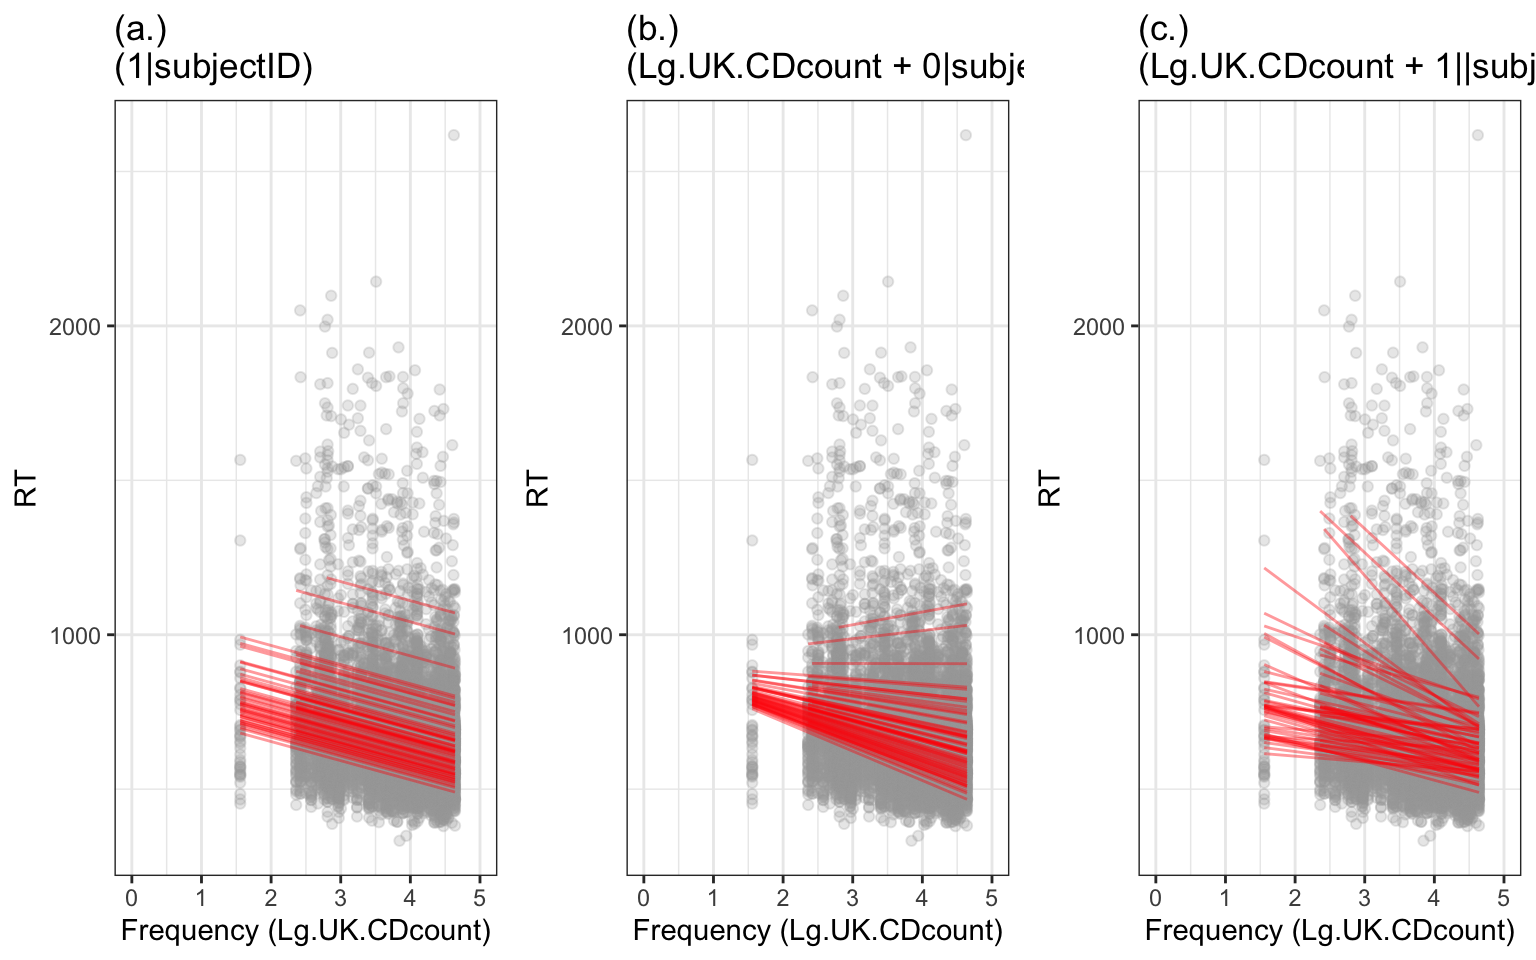
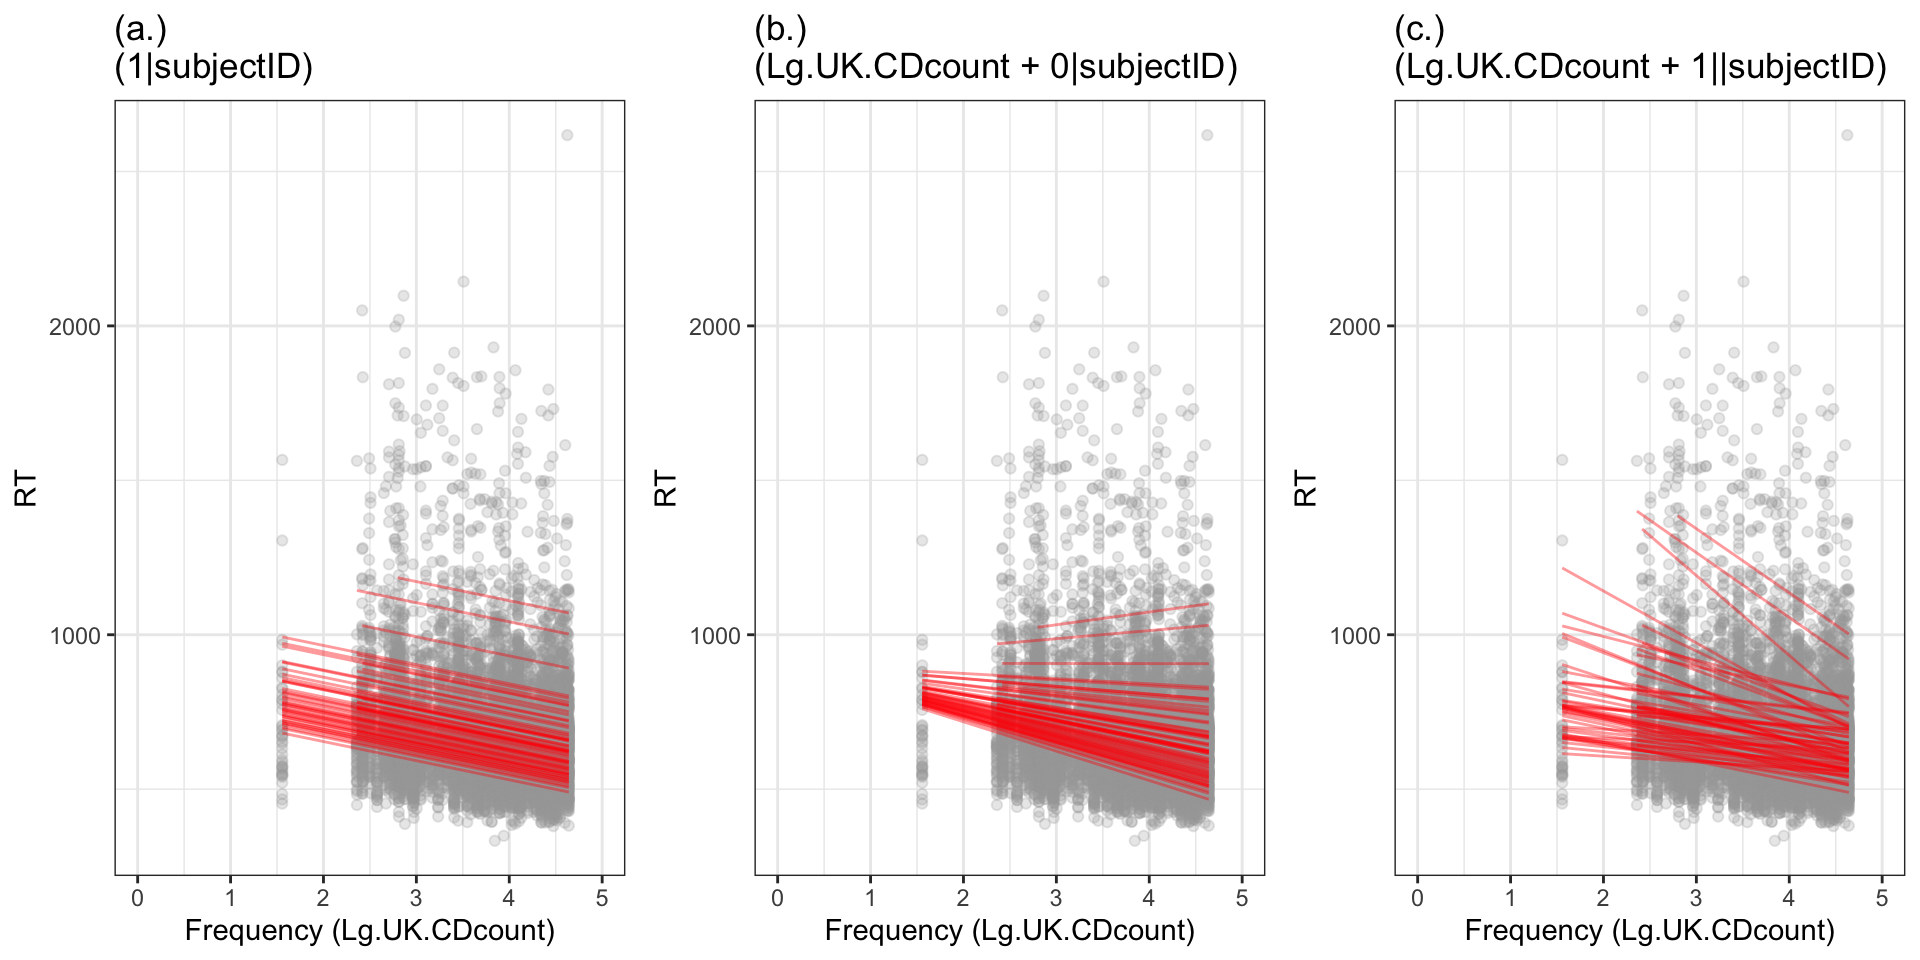
-- DONE -- edit structure of lmer model variant and error message exercise discussions -- DONE -- edit aspect of plots

diff --git a/docs/02-mixed.html b/docs/02-mixed.html
@@ -1803,72 +1803,54 @@ Y_{ij} = \gamma_0 + \gamma_1X_j + U_{0i}+ U_{1i}X_j + e_{ij}
 <li>the average intercept <span class="math inline">\(\gamma_0\)</span> and differences between <span class="math inline">\(i\)</span> children in the intercept <span class="math inline">\(U_{0i}\)</span>;</li>
 <li>the average effect of the explanatory variable frequency <span class="math inline">\(\gamma_1X_j\)</span> and differences between <span class="math inline">\(i\)</span> participants in the slope <span class="math inline">\(U_{1i}X_j\)</span>.</li>
 </ul>
-<p>When we think about the differences between participants (or between the units of any grouping variable), in intercepts or in slopes, we should understand that for the mixed-effects model, the differences are:</p>
+<p>When we think about the differences between participants (or between the units of any grouping variable), in intercepts or in slopes, we typically assume that the differences are:</p>
 <ul>
 <li>random;</li>
 <li>should be normally distributed;</li>
 <li>and are distributed around the population or average fixed effects.</li>
 </ul>
-<p>We should understand that the mixed-effects model sees the differences between participants <strong>relative to the fixed effect intercept or slope</strong>, that is, relative to the population level or average effects. We can illustrate this by plotting, in <a href="#fig-BLUPS-prediction">Figure&nbsp;<span>4.5</span></a>, the differences as estimated (technically, predicted) by the mixed-effects model that we have been examining. (The code for producing the plot can be found in <code>02-mixed-workbook-answers.R</code>.)</p>
-<p>What you can see in <a href="#fig-BLUPS-prediction">Figure&nbsp;<span>4.5</span></a> are distributions. The centers of the distributions are located at zero (shown by a red line). For each distribution (a. and b.), that is where the model estimate of the intercept or the slope of the frequency effect is located. Spread around that central point, you see the adjustments the model makes to account for differences between participants.</p>
-<ol type="1">
-<li>Notice how, in <a href="#fig-BLUPS-prediction">Figure&nbsp;<span>4.5</span></a> (a.)</li>
-</ol>
-<ul>
-<li>Some children have intercepts that are smaller than the population-level or average intercept – so their adjustments are negative (to decrease their intercepts).</li>
-<li>In comparison, some children have intercepts that are larger than the population-level or average intercept – so their adjustments are positive (to increase their intercepts).</li>
-<li>Strikingly, you can see that a few children have intercepts that are as much as 1000ms larger than the population-level or average intercept.</li>
-</ul>
-<ol start="2" type="1">
-<li>Notice how, in <a href="#fig-BLUPS-prediction">Figure&nbsp;<span>4.5</span></a> (b.)</li>
-</ol>
-<ul>
-<li>Some children have frequency effects (coefficients) that are smaller than the population-level or average frequency effect – so their adjustments are positive (to decrease their frequency effect, by making it <em>less</em> negative).</li>
-<li>Remember the estimated <span class="math inline">\(\beta\)</span> coefficient for the frequency effect is negative because higher word frequency is associated with smaller RT.</li>
-<li>In comparison, some children have frequency effects that are larger than the population-level or average frequency effect – so their adjustments are negative (to increase their frequency effect, by making it <em>more</em> negative).</li>
-<li>Strikingly, you can see that a few children have frequency effects that are as much as 200ms larger (see plot (b.) around <span class="math inline">\(x = -200\)</span>) than the population-level or average effect.</li>
-</ul>
+<p>We can say that the mixed-effects model sees the differences between participants <strong>relative to the fixed effect intercept or slope</strong>, that is, relative to the population level or average effects.</p>
+<p>We can illustrate this by plotting, in <a href="#fig-BLUPS-prediction">Figure&nbsp;<span>4.5</span></a>, the differences as estimated – technically, <em>predicted</em> – by the mixed-effects model that we have been examining. (The code for producing the plot can be found in <code>02-mixed-workbook-answers.R</code>.)</p>
 <div class="cell">
 <div class="cell-output-display">
 <div id="fig-BLUPS-prediction" class="quarto-figure quarto-figure-center anchored">
 <figure class="figure">
 <p><img src="02-mixed_files/figure-html/fig-BLUPS-prediction-1.png" class="img-fluid figure-img" alt="The figure shows two histograms (a.) on the left represents the distribution of adjustments to account for per-child deviations between the overall intercept and the intercept estimated for a child while (b.) on the right represents the distribution of adjustments to account for per-child deviations between the overall slope and the slope estimated for a child. The histograms indicate widely spread deviations about the overall estimate." width="960"></p>
-<p></p><figcaption class="figure-caption">Figure&nbsp;4.5: Plot showing histograms indicating the distribution of participant adjustments to account for between-child differences in intercept or slope (known as Best Linear Unbiased Predictions)</figcaption><p></p>
+<p></p><figcaption class="figure-caption">Figure&nbsp;4.5: Plot showing histograms indicating the distribution of participant adjustments to account for between-child differences in intercept or slope (the Best Linear Unbiased Predictions).</figcaption><p></p>
 </figure>
 </div>
 </div>
 </div>
-<p>When a mixed-effects model is fitted to a dataset, its set of estimated parameters includes the coefficients for the fixed effects as well as the standard deviations for the random effects <span class="citation" data-cites="baayen2008">(<a href="references.html#ref-baayen2008" role="doc-biblioref">Baayen et al., 2008</a>)</span>. The individual values of the adjustments made to intercepts and slopes are calculated once the random effects have been estimated. If you read the literature on mixed-effects models, you will see that the adjustments are called <em>Best Linear Unbiased Predictors</em> (BLUPs).</p>
-<section id="sec-intro-mixed-exx-lmer" class="level4" data-number="4.9.7.1">
-<h4 data-number="4.9.7.1" class="anchored" data-anchor-id="sec-intro-mixed-exx-lmer"><span class="header-section-number">4.9.7.1</span> Exercise</h4>
-<p>Mixed-effects modeling is hard to get used to <em>at first</em>. A bit more practice helps to show you how the different parts of the model work. We again focus on the random effects.</p>
+<p>What you can see in <a href="#fig-BLUPS-prediction">Figure&nbsp;<span>4.5</span></a> are distributions, presented using histograms. The centers of the distributions are located at zero (shown by a red line). For each distribution (a. and b.), that is where the model estimate of the intercept or the slope of the frequency effect is located. Spread around that central point, you see the adjustments the model makes to account for differences between participants.</p>
+<p>Notice how, in <a href="#fig-BLUPS-prediction">Figure&nbsp;<span>4.5</span></a> (a.):</p>
+<ol type="1">
+<li>Some children have intercepts that are smaller than the population-level or average intercept – so their adjustments are negative (to decrease their intercepts).</li>
+<li>Some children have intercepts that are larger than the population-level or average intercept – so their adjustments are positive (to increase their intercepts).</li>
+</ol>
 <ul>
-<li>In the model we have seen so far, we specify <code>(Lg.UK.CDcount + 1||subjectID)</code></li>
-<li>We can change this part – and only this part – to see what happens to the results, do this:</li>
+<li>Strikingly, you can see that a few children have intercepts that are as much as 1000ms larger than the population-level or average intercept: the bars representing the estimates for these children are far out on the right of the x-axis in <a href="#fig-BLUPS-prediction">Figure&nbsp;<span>4.5</span></a> (a.).</li>
+</ul>
+<p>Now notice how, in <a href="#fig-BLUPS-prediction">Figure&nbsp;<span>4.5</span></a> (b.):</p>
+<ol start="3" type="1">
+<li>Some children have frequency effects (coefficients) that are smaller than the population-level or average frequency effect – so their adjustments are positive (to decrease their frequency effect, by making it <em>less</em> negative).</li>
+<li>Some children have frequency effects that are larger than the population-level or average frequency effect – so their adjustments are negative (to increase their frequency effect, by making it <em>more</em> negative).</li>
+</ol>
+<p>(When you look at <a href="#fig-BLUPS-prediction">Figure&nbsp;<span>4.5</span></a> (b.), remember that the estimated <span class="math inline">\(\beta\)</span> coefficient for the frequency effect is negative because higher word frequency is associated with smaller RT.)</p>
+<ul>
+<li>Strikingly, you can see that a few children have frequency effects that are as much as 200ms larger (see plot (b.) around <span class="math inline">\(x = -200\)</span>) than the population-level or average effect.</li>
+</ul>
+<p>When a mixed-effects model is fitted to a dataset, its set of estimated parameters includes the coefficients for the fixed effects as well as the standard deviations for the random effects <span class="citation" data-cites="baayen2008">(<a href="references.html#ref-baayen2008" role="doc-biblioref">Baayen et al., 2008</a>)</span>. If you read the literature on mixed-effects models, you will see that the adjustments are called <em>Best Linear Unbiased Predictors</em> (BLUPs).</p>
+<section id="sec-intro-mixed-exx-lmer-random-effects" class="level4" data-number="4.9.7.1">
+<h4 data-number="4.9.7.1" class="anchored" data-anchor-id="sec-intro-mixed-exx-lmer-random-effects"><span class="header-section-number">4.9.7.1</span> Exercise: Random effects in mixed-effects models</h4>
+<p>Mixed-effects modeling is hard to get used to <em>at first</em>. A bit more practice helps to show you how the different parts of the model work. We again focus on the random effects.</p>
+<p>In the model we have seen so far, we specify <code>(Lg.UK.CDcount + 1||subjectID)</code></p>
+<ul>
+<li>We can change this part – and only this part – to see what happens to the results. <strong>Do it:</strong> rerun the model code, having changed the random effects part:</li>
 </ul>
 <ol type="1">
 <li><code>lmer(RT ~  Lg.UK.CDcount + (1|subjectID)...)</code> gives us a <em>random intercepts</em> model accounting for just random differences between participants in the intercept</li>
 <li><code>lmer(RT ~  Lg.UK.CDcount + (Lg.UK.CDcount + 0|subjectID)...)</code> gives us a <em>random slope</em> model accounting for just random differences between participants in the slope of the frequency effect</li>
 <li><code>lmer(RT ~  Lg.UK.CDcount + (Lg.UK.CDcount + 1|subjectID)...)</code> gives us a <em>random intercepts and slopes</em> model accounting for both random differences between participants in the intercept and in the slope, as well as covariance in these differences.</li>
-</ol>
-<p>Try out these variations and <em>look carefully</em> at the different results. Look, especially, at what happens to the <code>Random effects</code> part of the summary.</p>
-<p>We can <em>visualize</em> the differences between the models in a plot showing the different predictions that the different models give us. <a href="#fig-indiv-prediction">Figure&nbsp;<span>4.6</span></a> shows what a mixed-effects model would predict should be the effect of frequency on RT for different children in the CP study. The predictions vary depending on the nature of the random effects we specify in the model.</p>
-<p>(Note that I figured out how to produce the plot from the information <a href="https://bbolker.github.io/morelia_2018/notes/mixedlab.html">here</a>.)</p>
-<div class="cell">
-<div class="cell-output-display">
-<div id="fig-indiv-prediction" class="quarto-figure quarto-figure-center anchored">
-<figure class="figure">
-<p><img src="02-mixed_files/figure-html/fig-indiv-prediction-1.png" class="img-fluid figure-img" alt="The figure shows a grid of scatterplots. In all scatterplots, the same scatter is shown. Points in grey represent the RT and word frequency information for children's responses in reading words in the experimental task. Superimposed on the points are sets of red lines. The lines represent the predictions of different models (a.) assuming a random effect of participants on intercepts, all slopes are the same  but intercepts vary (b.) assuming a random effect of participants on slopes only, slopes vary but intercepts are the same (c.) and assuming random effect of participants on intercepts and on slopes both intercepts and slopes can be seen to vary." width="768"></p>
-<p></p><figcaption class="figure-caption">Figure&nbsp;4.6: Plot showing model predictions of the effect, for each individual, of word frequency on reading reaction time – predictions vary between models incorporating (a.) random effect of participants on intercepts only; (b.) random effect of participants on slopes only and (c.) random effect of participants on intercepts and on slopes.</figcaption><p></p>
-</figure>
-</div>
-</div>
-</div>
-<p>We can see that:</p>
-<ol type="1">
-<li>If the model includes the random effect of <em>participants on intercepts only</em> then all the slopes are the same (the lines in the figure are parallel) because this model assumes that the only differences between participants are differences in the intercepts.</li>
-<li>If the model includes the random effect of <em>participants on slopes only</em> then the slopes vary but they all have the same intercept. The plot does not show this but you can see how all the slopes are converging on one point somewhere on the left. This happens because this model assumes that the only differences between participants are differences in the slopes.</li>
-<li>If the model includes the random effect of <em>participants on intercepts and on slopes</em> then we can see how the intercepts and the slopes vary. Given what we saw when we looked at the relation between frequency and RT for each participant considered separately we might argue that this model is much more realistic about the data.</li>
 </ol>
 <div class="callout-tip callout callout-style-default callout-captioned">
 <div class="callout-header d-flex align-content-center">
@@ -1880,10 +1862,38 @@ Tip
 </div>
 </div>
 <div class="callout-body-container callout-body">
-<p>It is very important to learn to make effective use of the warnings and error messages R can produce.</p>
+<p>Try out these variations and <em>look carefully</em> at the different results. Look, especially, at what happens to the <code>Random effects</code> part of the summary.</p>
 </div>
 </div>
-<p>Note: you do not have to just believe me when I say that <code>||</code> is in the model code to stop a problem appearing. Experiment – and see what happens when you change the code. Try this.</p>
+<p>This will be an important and revealing exercise.</p>
+<p>We can <em>visualize</em> the differences between the models in a plot showing the different predictions that the different models give us. <a href="#fig-indiv-prediction">Figure&nbsp;<span>4.6</span></a> shows what a mixed-effects model predicts are the effects of frequency on RT <em>for different children</em> in the CP study.</p>
+<ul>
+<li>The predictions vary depending on the nature of the random effects we specify in the model.</li>
+</ul>
+<p>(Note that I figured out how to produce the plot from the information <a href="https://bbolker.github.io/morelia_2018/notes/mixedlab.html">here</a>.)</p>
+<div class="cell">
+<div class="cell-output-display">
+<div id="fig-indiv-prediction" class="quarto-figure quarto-figure-center anchored">
+<figure class="figure">
+<p><img src="02-mixed_files/figure-html/fig-indiv-prediction-1.png" class="img-fluid figure-img" alt="The figure shows a grid of scatterplots. In all scatterplots, the same scatter is shown. Points in grey represent the RT and word frequency information for children's responses in reading words in the experimental task. Superimposed on the points are sets of red lines. The lines represent the predictions of different models (a.) assuming a random effect of participants on intercepts, all slopes are the same  but intercepts vary (b.) assuming a random effect of participants on slopes only, slopes vary but intercepts are the same (c.) and assuming random effect of participants on intercepts and on slopes both intercepts and slopes can be seen to vary." width="960"></p>
+<p></p><figcaption class="figure-caption">Figure&nbsp;4.6: Plot showing model predictions of the effect, for each individual, of word frequency on reading reaction time – predictions vary between models incorporating (a.) random effect of participants on intercepts only; (b.) random effect of participants on slopes only and (c.) random effect of participants on intercepts and on slopes.</figcaption><p></p>
+</figure>
+</div>
+</div>
+</div>
+<p>We can see that:</p>
+<ol type="1">
+<li>If the model includes the random effect of <em>participants on intercepts only</em> then all the slopes are the same (the lines in the figure are parallel) because this model assumes that the only differences between participants are differences in the intercepts.</li>
+<li>If the model includes the random effect of <em>participants on slopes only</em> then the slopes vary but they all have the same intercept. The plot does not show this but you can see how all the slopes are converging on one point somewhere on the left. This happens because this model assumes that the only differences between participants are differences in the slopes.</li>
+<li>If the model includes the random effect of <em>participants on intercepts and on slopes</em> then we can see how the intercepts and the slopes vary. Given what we saw when we looked at the relation between frequency and RT for each participant considered separately we might argue that this model is much more realistic about the data.</li>
+</ol>
+</section>
+<section id="sec-intro-mixed-exx-lmer-error" class="level4" data-number="4.9.7.2">
+<h4 data-number="4.9.7.2" class="anchored" data-anchor-id="sec-intro-mixed-exx-lmer-error"><span class="header-section-number">4.9.7.2</span> Exercise: Error messages for mixed-effects models</h4>
+<p>You do not have to just believe me when I say that <code>||</code> is in the model code to stop a problem appearing.</p>
+<ul>
+<li>Experiment – and see what happens when you change the code. Try this.</li>
+</ul>
 <div class="cell">
 <div class="sourceCode cell-code" id="cb25"><pre class="sourceCode r code-with-copy"><code class="sourceCode r"><span id="cb25-1"><a href="#cb25-1" aria-hidden="true" tabindex="-1"></a>lmer.all<span class="fl">.1</span> <span class="ot">&lt;-</span> <span class="fu">lmer</span>(RT <span class="sc">~</span>  Lg.UK.CDcount <span class="sc">+</span> (Lg.UK.CDcount <span class="sc">+</span> <span class="dv">1</span><span class="sc">|</span>subjectID),</span>
 <span id="cb25-2"><a href="#cb25-2" aria-hidden="true" tabindex="-1"></a>             </span>
@@ -1893,6 +1903,19 @@ Tip
 </div>
 <p>Do you get an error message?</p>
 <p>A very useful trick is to learn to copy the error message you get into a search engine on your web browser. Do this and you will find useful help, as <a href="https://rstudio-pubs-static.s3.amazonaws.com/33653_57fc7b8e5d484c909b615d8633c01d51.html">here</a></p>
+<div class="callout-important callout callout-style-default callout-captioned">
+<div class="callout-header d-flex align-content-center">
+<div class="callout-icon-container">
+<i class="callout-icon"></i>
+</div>
+<div class="callout-caption-container flex-fill">
+Important
+</div>
+</div>
+<div class="callout-body-container callout-body">
+<p>It is key to your skills development that you learn to make effective use of the warnings and error messages R can produce.</p>
+</div>
+</div>
 </section>
 </section>
 </section>
